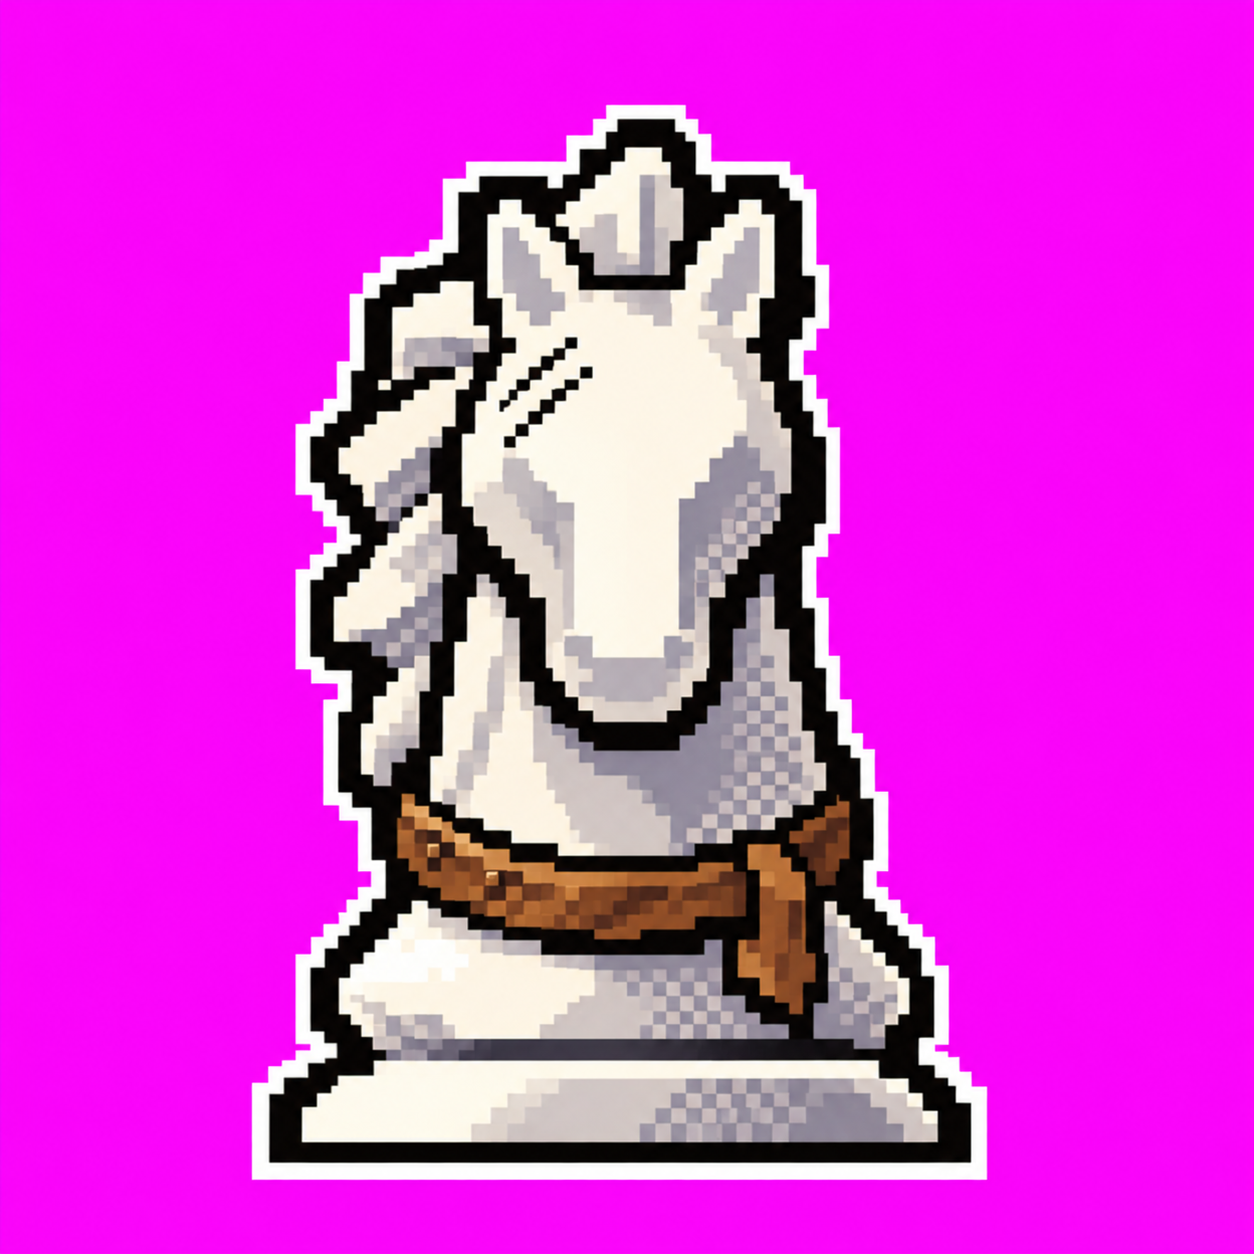
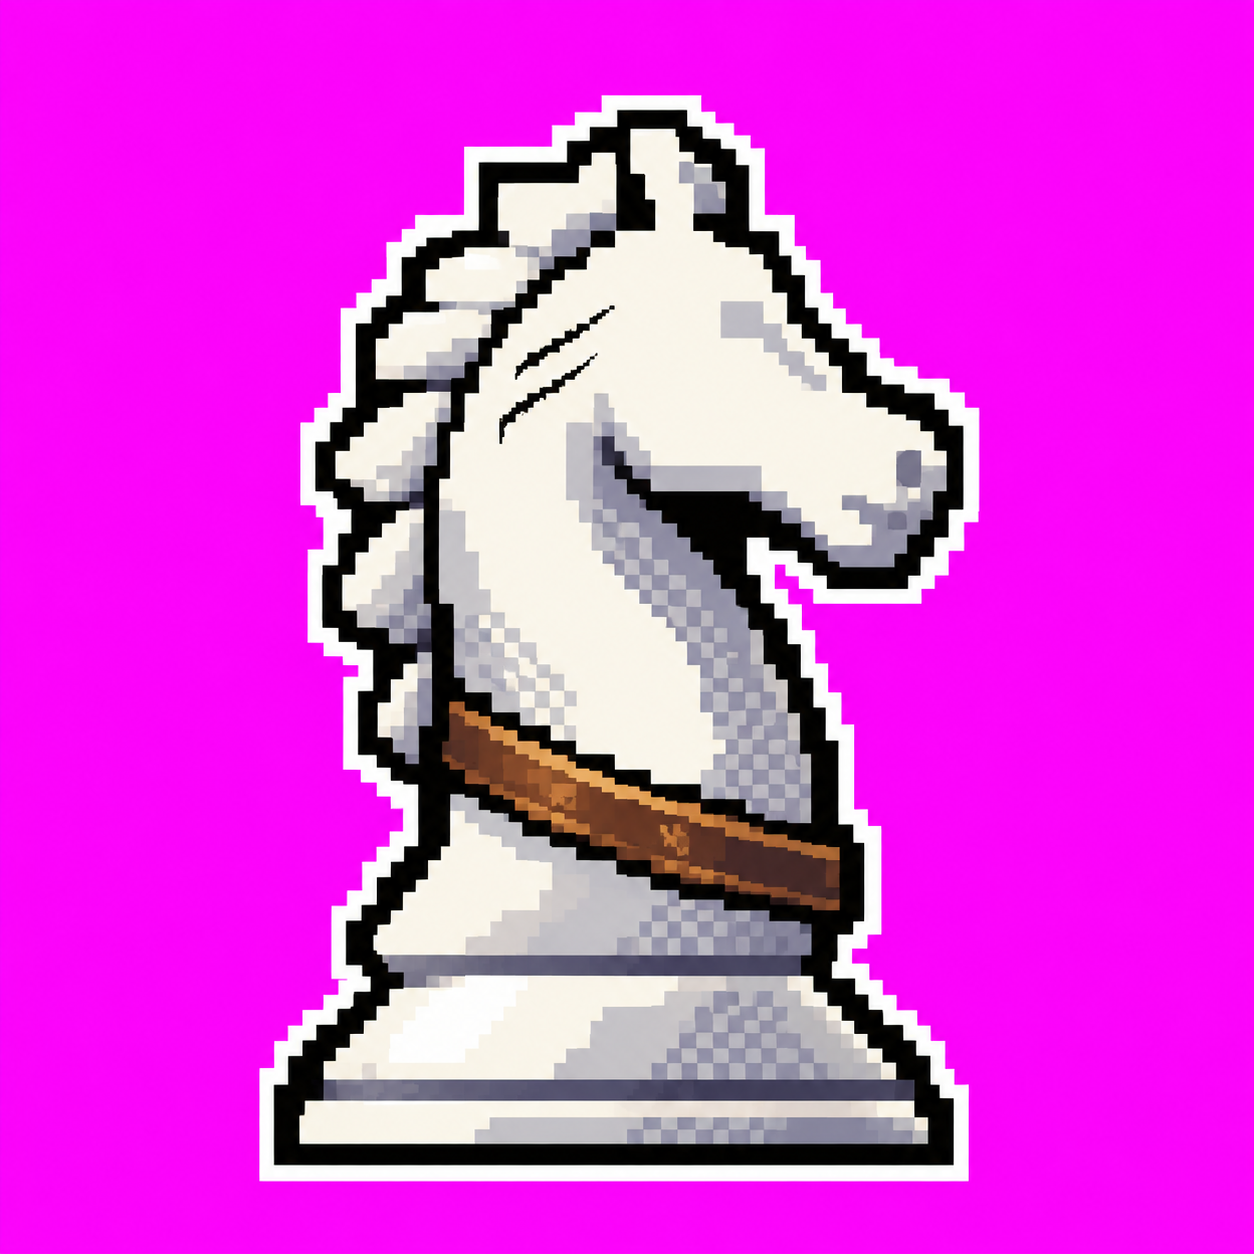
Queen cross restored, knight face in, C-06 redesigned as a covering shadow (D-351)
- 퀸 얼굴의 십자가를 원래대로 되돌렸습니다(우리 퀸 기물에도 십자가가 있음).
- 나이트 얼굴 2차(옆모습)를 넣어 분대원 얼굴 5장을 채웠습니다.
- C-06은 레버 누르기 기획을 버리고, 금칠 킹의 거대한 그림자가 아래 라인의 폰 상자를 덮어 경고등을 끄는 장면으로 프롬프트를 다시 썼습니다. 3차 시안은 임시로 게임에 넣었습니다.

Claude-Session: https://claude.ai/code/session_011jC4ZCDKW43H5FzLWnYVpe

Changed region(s): [[0.1866, 0.0622, 0.8086, 0.9641]]

diff --git a/src/data/preload-list.ts b/src/data/preload-list.ts
@@ -229,6 +229,7 @@ export const PRELOAD: string[] = [
   "ui/hud/avatar-spawn.png",
   "ui/hud/avatar-thorns.png",
   "ui/hud/crew-B.png",
+  "ui/hud/crew-N.png",
   "ui/hud/crew-P.png",
   "ui/hud/crew-Q.png",
   "ui/hud/crew-R.png",

diff --git a/tools/order/order_page.py b/tools/order/order_page.py
@@ -27,7 +27,7 @@ ATTACH = [
     ('⑦', '부관 박차 얼굴 — 분대원 얼굴 5장의 규격 정답 (D-346)', 'build-res/order/N-01-adjutant-src-source.png', 360),
 ]
 # 받았지만 화풍이 어긋나 다시 받는 그림 (D-307) — 파일이 있어도 「다시 받기」로 보인다
-REDO: set[str] = {"promote-alarm", "crew-N"}  # D-349: C-06 2차 — 킹 실루엣 · 폰 상자 위치만 수정 발주
+REDO: set[str] = {"promote-alarm"}  # D-351: C-06 기획 변경 — 덮는 그림자  # D-349: C-06 2차 — 킹 실루엣 · 폰 상자 위치만 수정 발주
 
 
 def data_uri(path, width):
@@ -231,7 +231,7 @@ def main(out_path):
                 if mb.group(0) == 'N-03':
                     figs = [('build-res/order/N-crew-N-source.png', '1차 — 다시 (정면 말 얼굴 · 귀 · 주둥이 → ⑦처럼 옆모습)'), ('build-res/order/N-01-adjutant-src-source.png', '⑦ 부관 박차 — 이 각도 · 실루엣으로')]
                 if mb.group(0) == 'C-06':
-                    figs = [('build-res/order/C-06-draft2.png', '2차 — 거의 됨 (임시로 게임에 넣음). 수정: 휜 킹 → 반듯한 킹 통째로 기울이기 · 폰 상자를 위로 크게'), ('build-res/order/C-06-bad-draft.png', '1차 — 다시 (평평 · 텅 빈 화면 · 팔처럼 늘어난 금칠)')]
+                    figs = [('build-res/order/C-06-draft3.png', '1 ~ 3차 — 레버 누르기 기획 폐기 (D-351, 3차는 임시로 게임에)')]
                 if mb.group(0) != 'BF-01' and not mb.group(0).startswith(('C-', 'N-')) and os.path.exists(os.path.join(ROOT, 'build-res/order/BF-01-boss-fall-plate-source.png')):
                     figs.append(('build-res/order/BF-01-boss-fall-plate-source.png', '⑥ 화풍 정답 — 완성된 철갑 격파 컷 (화풍 · 빛 · 극적인 정도만. 구도는 따라 하지 않는다)'))
                 ih = '<div class="figs">' + ''.join(f'<figure><img src="{data_uri(pth, 720)}" alt=""><figcaption>{html.escape(cap)}<br><code>{pth}</code></figcaption></figure>' for pth, cap in figs) + '</div>' + ih

diff --git a/tools/pixel/crew_faces.py b/tools/pixel/crew_faces.py
@@ -62,5 +62,5 @@ def one(t):
 
 
 if __name__ == '__main__':
-    for t in 'PBRQ':  # N(나이트)은 다시 받는 중 (D-350) — 받으면 'N'을 넣는다
+    for t in 'PNBRQ':
         one(t)

diff --git a/docs/asset-order-master.md b/docs/asset-order-master.md
@@ -2086,12 +2086,13 @@
 | N-05 | `crew-R.png` | 흰 룩 | 규정에 매인 살아 움직이는 요새 |
 | N-06 | `crew-Q.png` | 흰 퀸 | 콧대 높은 귀족 |
 
-## C-06 · 경고등 끄는 손  →  `public/scenes/promote-alarm.png`
-쓰는 곳: S7-7 승급할 때마다 — 「아래 라인에서 경고등이 깜빡였다. 경보가 울리면 검수가 시작되고, 검수가 시작되면 금칠 아래가 드러난다. 그는 손을 뻗어, 그것을 껐다. 판 위의 모든 왕이 그랬듯이.」 (지금은 「조항 새김」 재사용).
+## C-06 · 경고등 끄는 손 — 덮는 그림자  →  `public/scenes/promote-alarm.png`
+쓰는 곳: S7-7 승급할 때마다 — 「아래 라인에서 경고등이 깜빡였다. 경보가 울리면 검수가 시작되고, 검수가 시작되면 금칠 아래가 드러난다. 그는 손을 뻗어, 그것을 껐다. 판 위의 모든 왕이 그랬듯이.」
+**기획 변경 (D-351)**: 「금칠 킹이 레버를 누른다」는 팔 없는 기물로 세 번 다 어색했다 → **그림자가 덮어 끈다**. 위에서 내려다본 아래 라인의 작은 상자(킹 자리에 폰)를, 금칠 킹의 거대한 그림자가 덮고, 덮인 자리의 경고등이 꺼진다. 한때 도금왕의 그림자 아래 있던 그가 이제 다음 폰을 덮는다 — 되풀이.
 첨부: ① 기물 도트 · ⑧ 「말리는 분대」(`build-res/order/C-05-promote-crew-source.png`) · ⑨ 「조항 새김」(`build-res/order/C-02-promote-rule-source.png`).
 
 ```
-같은 게임의 컷 한 장을 그려 줘. 장면 이름: 「경고등 끄는 손」. 감정: 죄책감 · 반복 · 몸이 먼저 움직인다.
+같은 게임의 컷 한 장을 그려 줘. 장면 이름: 「덮는 그림자」. 감정: 되풀이 · 죄책감 · 차가운 침묵.
 
 [정답 그림 — 가장 중요]
 - 첨부 ⑧ 「말리는 분대」 · ⑨ 「조항 새김」이 이 컷의 정답이다 (같은 연작, 같은 화가). 그 두 장과 같은 도트 크기 · 같은 밀도 · 같은 빛 표현으로 그린다: 어두운 공장(철골 · 파이프 · 사슬 · 리벳)이 화면 끝까지 촘촘히 깔려 있되 어둡게 가라앉아 있고, 주인공에게만 강한 빛이 떨어진다.
@@ -2108,29 +2109,19 @@
 - 아래 3분의 1은 게임에서 글상자에 가린다: 어둡게 가라앉히되 바닥 · 그림자 디테일은 이어진다. 장면의 핵심은 화면 높이 15 ~ 60% 안에.
 
 [구도와 장면]
-옆에서 조금 올려다본 중간 거리. 화면 왼쪽 절반: 높은 포장대 철제 통로 위에 ⑨와 같은 금칠 킹(금칠이 흘러내려 굳은 자국, 왕관 십자가) — 화면 높이의 55 ~ 65%. 킹이 몸통 전체를 오른쪽으로 기울여, 벽의 커다란 칼날형 스위치 레버(붉은 손잡이, 사람 팔뚝만 한 쇠막대)를 어깨로 눌러 내리고 있다 — 팔 없이 몸무게로 누른다. 레버가 내려가는 자리에서 작은 불꽃 몇 점. 레버 위 붉은 경고등이 막 꺼져 어두운 붉은 유리만 남았다.
-화면 오른쪽 절반: 통로 난간 너머 아득히 아래, 컨베이어 라인이 대각선으로 지나가고, 그 위의 상자 하나(킹 자리에 흰 폰이 놓인) 옆 작은 경고등도 같은 순간 꺼져 간다 — 레버에서 그 경고등까지 굵은 전선 한 줄이 이어져 보인다. 상자는 화면 높이 35 ~ 50% 사이.
+높은 포장대 위에서 아래 라인을 비스듬히 내려다본 하이 앵글. 화면 가운데(가로 40 ~ 60%, 세로 30 ~ 55%)에 컨베이어 위의 작은 출하 상자 하나 — 상자 위 킹 자리에 흰 폰 하나가 서 있다(화면 높이의 15 ~ 20%, 또렷하게). 상자 옆 기둥의 작은 붉은 경고등이 깜빡이고 있다.
+화면 위쪽 가장자리에서부터 금칠 킹의 거대한 그림자가 바닥과 컨베이어를 따라 길게 드리워 내려온다 — 그림자는 단색 짙은 면 하나로 또렷한 킹 실루엣(받침 · 몸통 · 왕관 · 위의 십자가), 그 윤곽선만 1 ~ 2도트 금빛으로 테가 진다(위쪽 등 뒤에서 금빛이 비추기 때문). 그림자의 왕관 끝이 막 상자와 폰을 덮었고, 그림자 안으로 들어간 경고등은 빛을 잃어 어두운 붉은 유리만 남았다. 그림자 밖 라인의 다른 상자들과 기계는 공장 조명에 어둡게 보인다.
+킹 본체는 화면 위쪽 가장자리 밖에 있어 보이지 않는다 — 금칠이 흘러내린 받침 끝만 화면 맨 위에 조금 걸린다.
 
 [색 — 이 안에서만]
-금칠 #8A6416 · #C89B3C · #FACC15 · #FFF3B0, 꺼져 가는 경고등 #3A0A10 · #7A1218 · #E5262F, 아래 라인의 용광로 빛 #8A3A12 · #E8783C, 공장 그늘 #0B0B0E · #16141C · #2F2E36.
+그림자 #0B0B0E · #16141C, 그림자 테 금빛 #C89B3C · #FACC15, 경고등 #E5262F(그림자 밖에 남은 빛) · #3A0A10(꺼진 유리), 흰 폰 #F4F1EA · #A8A4B2, 공장 #1C1D22 · #2F2E36 · #56545E, 먼 용광로 빛 #8A3A12 · #E8783C.
 
 [하지 말 것]
-- 금칠이나 액체가 팔 · 손 · 촉수처럼 늘어나 스위치를 누르는 모습 (몸통을 기울여 어깨로 누른다)
-- 텅 빈 화면 · 평평한 색면 · 작은 주인공
-- ⑨와 다른 생김새의 금칠 킹
+- 금칠 킹 본체를 크게 그리는 것 · 레버 · 스위치 · 팔 · 손 (그림자만으로 말한다)
+- 흐릿하거나 퍼진 그림자 (단색 면 + 또렷한 실루엣)
+- 작은 폰 · 텅 빈 화면
 
 같은 장면으로 한 장만. 글자를 넣지 말 것.
-```
-
-**수정 발주 (2차 시안 기준, 2026-11-09)** — 2차 시안(`build-res/order/C-06-draft2.png`)을 첨부하고 아래만 고친다. 구도 · 빛 · 공장 디테일 · 레버 · 전선은 좋다.
-
-```
-첨부한 그림(2차 시안)을 고쳐 줘. 구도 · 빛 · 색 · 공장 배경 · 레버 · 전선은 그대로 둔다. 아래 두 가지만 고친다.
-
-1. 금칠 킹의 모양: 지금은 몸통이 양말처럼 휘고 구겨져 있다. 반듯한 체스 킹 한 개(첨부 ①의 킹 실루엣 — 받침 · 몸통 · 목 테 · 왕관 · 십자가)가 통째로 오른쪽으로 약 25도 기울어, 어깨(몸통 위쪽 옆면)로 레버를 누르는 모습으로. 몸통은 휘지 않는다. 금칠은 겉에 덮여 흘러내린 자국으로만, 실루엣을 바꾸지 않는다. 왕관 위 십자가는 몸에 붙어 있다.
-2. 아래 라인의 폰 상자와 그 경고등을 화면 높이 40 ~ 55% 위치로 올리고, 지금보다 1.5배 크게. (게임에서 아래 3분의 1은 글상자에 가린다.) 상자 옆 작은 경고등은 막 꺼진 어두운 붉은 유리로, 레버에서 이어지는 전선이 그 경고등까지 닿는다.
-
-도트 크기 · 화풍은 첨부한 그림과 똑같이. 눈 · 입 · 팔 · 글자 없음.
 ```
 
 ## E-05 · 엔딩 A — 새 도금왕  →  `public/scenes/ending-a.png`
@@ -2289,19 +2280,6 @@
 - 장식 둘 이상
 
 같은 그림으로 한 장만. 글자를 넣지 말 것.
-```
-
-**수정 발주 (1차 기준, 2026-11-09)** — 1차는 말 얼굴을 정면에서 그려 귀 · 콧등 · 주둥이가 생겼다(얼굴 금지 · 체스 나이트가 아님). 1차(`build-res/order/N-crew-N-source.png`)와 ⑦을 함께 첨부한다.
-
-```
-첨부한 두 그림 중 두 번째(⑦, 흰 나이트 옆모습)와 같은 각도 · 같은 실루엣으로, 첫 번째 그림(1차)을 다시 그려 줘.
-
-1. 각도: 체스 나이트 말 머리를 옆에서 본 실루엣 (⑦처럼 오른쪽을 향한 옆모습). 정면 얼굴 금지 — 두 귀 · 콧등 · 주둥이 · 콧구멍이 정면으로 보이면 안 된다.
-2. ⑦과 구분되게: 황동 장식은 쓰지 않는다. 목 아래에 낡은 가죽끈 한 줄(1차의 갈색 끈 그대로), 갈기 홈 위에 오래된 긁힌 자국 두 줄(검은 1도트 선).
-3. 고개를 꼿꼿이 세운 자세. 몸은 흰 기물(#F4F1EA · #D6D2C8 · #A8A4B2, 바깥선 #0B0B0E), 빛은 왼쪽 위.
-4. 규격은 1차와 같다: 정사각 · 마젠타 #FF00FF 바탕 · 흰 테 2 ~ 3도트 + 검은 바깥선 1도트 · 머리부터 가슴까지.
-
-눈 · 입 · 표정 · 글자 없음.
 ```
 
 ## N-04 · 분대원 얼굴 — 흰 비숍  →  `public/ui/hud/crew-B.png`
